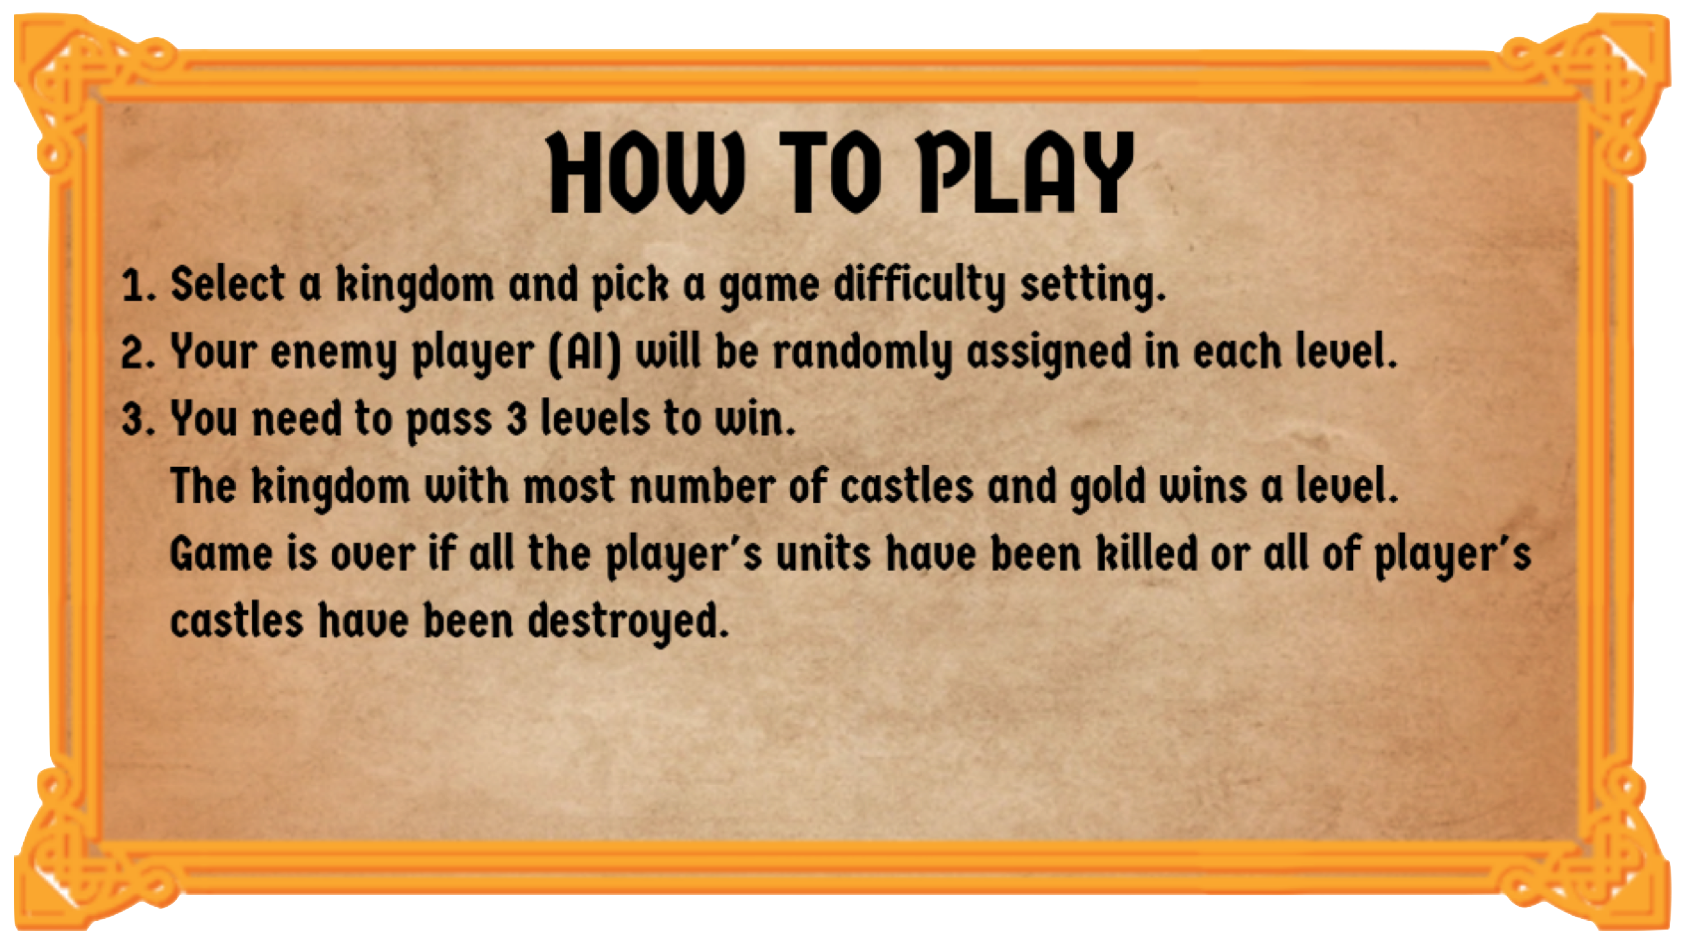
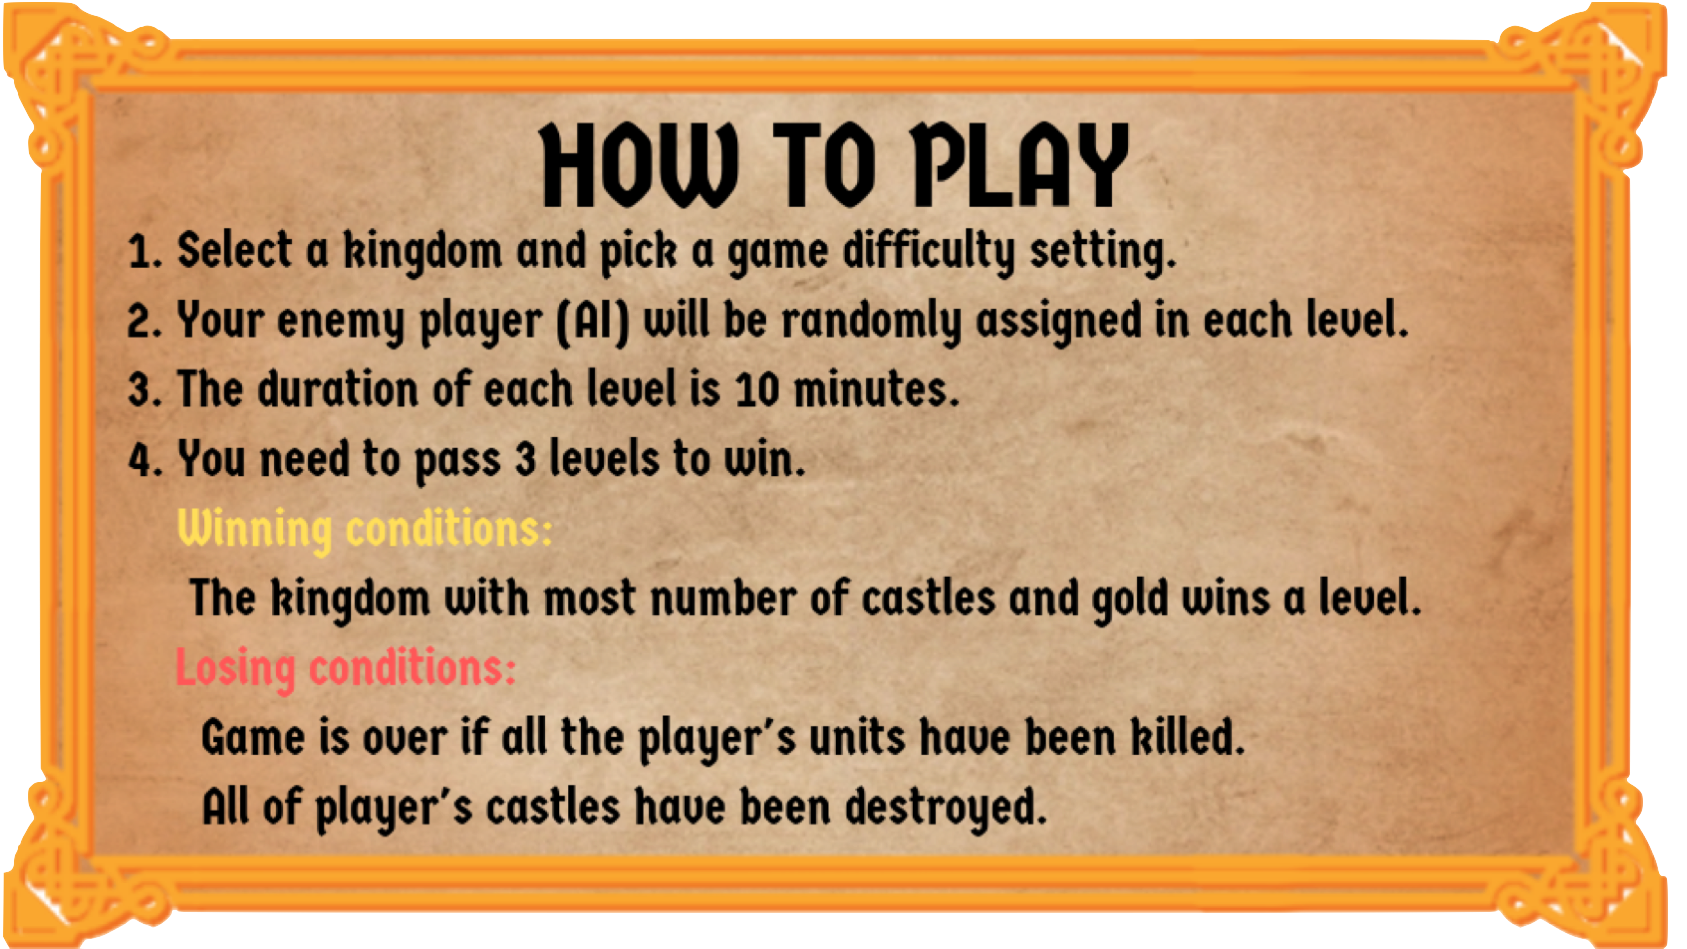
Added more info in the instructions

diff --git a/public/src/js/scenes/instructions.js b/public/src/js/scenes/instructions.js
@@ -23,10 +23,17 @@ class Instructions extends Phaser.Scene {
     if (howTo_nextPage === 1 && howToBox.texture.key === 'howToPlay1') {
       howTo_nextPage =0; howToBox.setTexture('howToPlay2'); }
     else if(howTo_nextPage === 1 && howToBox.texture.key === 'howToPlay2') {
+      howTo_nextPage=0; howToBox.setTexture('howToPlay3'); }
+    else if(howTo_nextPage === 1 && howToBox.texture.key === 'howToPlay3') {
+      howTo_nextPage=0; howToBox.setTexture('howToPlay4'); }
+    else if(howTo_nextPage === 1 && howToBox.texture.key === 'howToPlay4') {
+      howTo_nextPage=0; howToBox.setTexture('howToPlay5'); }
+    else if(howTo_nextPage === 1 && howToBox.texture.key === 'howToPlay5') {
       howTo_nextPage=0; howToBox.setTexture('howToPlay1'); }
   }
 
   nextPage(){
+    var nextPage = this.add.text(_width*0.85,_height*0.225,'Next',{fontSize: '20px Georgia', color: 'black'});
     var arrowButton = this.add.sprite(_width*0.85,_height*0.15,'arrowButton').setOrigin(0,0).setDisplaySize(50,50);
     arrowButton.setInteractive({useHandCursor:true});
     arrowButton.on('pointerdown', function () {

diff --git a/public/src/js/scenes/preload.js b/public/src/js/scenes/preload.js
@@ -52,6 +52,9 @@ class Preload extends Phaser.Scene {
       this.load.image('instructions_bg','Graphics/UI/sampleSelection.jpg');
       this.load.image('howToPlay1','Graphics/screens/start_screen/boxes/howToPlay1.png');
       this.load.image('howToPlay2','Graphics/screens/start_screen/boxes/howToPlay2.png');
+      this.load.image('howToPlay3','Graphics/screens/start_screen/boxes/kingdoms.png');
+      this.load.image('howToPlay4','Graphics/screens/start_screen/boxes/buildings.png');
+      this.load.image('howToPlay5','Graphics/screens/start_screen/boxes/units.png');
       this.load.image('arrowButton','Graphics/UI/arrow.png');
 
       // "gameHUD" assets
